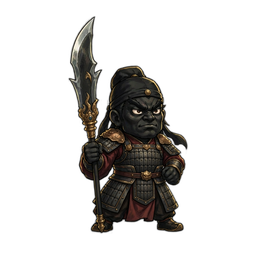
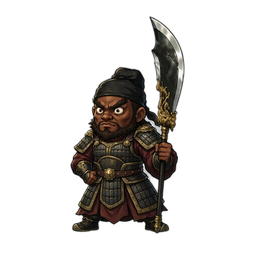
art(zhangfei): 肤色改为古铜色——回原著核对为'皮肤黝黑'而非戏曲'黑脸'，纯黑会埋掉环眼与表情；单位图同步改色并翻转朝右；工具新增--flip；规范补充肤色与朝向口径

Changed region(s): [[0.25, 0.0625, 0.75, 0.9375]]

diff --git a/zcode项目/tools/normalize_to_reference.py b/zcode项目/tools/normalize_to_reference.py
@@ -42,12 +42,16 @@ def main():
     ap.add_argument("--crop-bottom", type=int, default=0, help="先裁掉底部若干像素（去水印用）")
     ap.add_argument("--crop-right", type=int, default=0, help="先裁掉右侧若干像素（去水印用）")
     ap.add_argument("--no-rembg", action="store_true")
+    ap.add_argument("--flip", action="store_true",
+                    help="水平翻转。战场单位统一朝右，AI 出反了就用这个，别重新生成")
     ap.add_argument("--policy", choices=["fit", "height"], default="fit",
                     help="fit=宽高取小（立绘用，避免裁到肩膀）；"
                          "height=按高度对齐（战场单位用，保证换人时大小一致）")
     args = ap.parse_args()
 
     src = Image.open(args.src).convert("RGBA")
+    if args.flip:
+        src = src.transpose(Image.FLIP_LEFT_RIGHT)
     if args.crop_bottom or args.crop_right:
         w, h = src.size
         src = src.crop((0, 0, w - args.crop_right, h - args.crop_bottom))

diff --git a/zcode项目/docs/美术资源规范与AI生图指南.md b/zcode项目/docs/美术资源规范与AI生图指南.md
@@ -331,7 +331,7 @@ AI 很容易把三国武将"模板化"，尤其**胡子**——长髯几乎是 A
 | 角色 | 必须 | 严禁 |
 |---|---|---|
 | **关羽** | 长髯垂胸、面如重枣、丹凤眼 | — |
-| **张飞** | 豹头环眼（**暴眼圆睁**）、黑脸、燕颔（**宽下颌**）、**短硬虎须：贴腮络腮胡，只到下颌下缘** | **长髯 / 飘逸长须 / 美髯公 / 垂胸长胡**（那是关羽） |
+| **张飞** | 豹头环眼（**暴眼圆睁**）、**皮肤黝黑＝古铜/深棕（有血色与高光，不是纯黑）**、燕颔（**宽下颌**）、**短硬虎须：贴腮络腮胡，只到下颌下缘** | **长髯 / 飘逸长须 / 美髯公 / 垂胸长胡**（那是关羽）；**漆黑如炭 / 纯黑肤色**（会丢五官，且不符原著） |
 | **刘备** | 双耳垂肩、面如冠玉、短须、仁厚 | 长须、凶相 |
 | **赵云** | 剑眉星目、青年英武、白袍银甲 | 络腮大胡、老成 |
 
@@ -345,3 +345,30 @@ AI 很容易把三国武将"模板化"，尤其**胡子**——长髯几乎是 A
 > 立绘构图统一为**胸像**：头顶贴到画面上沿、胸口到画布下沿。
 > 若 AI 出成了半身/全身，先按 `--crop-bottom` 裁到胸像，再规整，
 > 否则用 `fit` 会因肩宽而把人缩得很小 —— 立绘也建议用 `--policy height`。
+
+### 张飞肤色：以原著为准，不照搬戏曲脸谱
+
+原著（本作小说）对张飞唯一的正面外貌描写是：
+
+> 「那人**皮肤黝黑**，长着一张**粗犷的大胡子脸**，露出一个**肌肉分明的粗壮臂膀**，丈八蛇矛反射着寒光」
+
+- **「黑脸」是戏曲脸谱符号**（象征猛直），小说原文并没有写"黑脸"。
+- 落地口径：**皮肤黝黑 = 常年征战的古铜/深棕色**，要有血色与高光、五官清晰可辨。
+- 第一版做成了接近纯黑，后果是**环眼、燕颔、表情全被埋掉**，玩家反馈"看着不太像"。
+  改成古铜色后，脸部结构和眼神才立住，在深色棋盘上的辨识度也明显提高。
+
+prompt 补充：
+```text
+皮肤黝黑但偏古铜色（常年征战的深棕色肌肤，有血色与高光，面部结构清晰可辨，不是纯黑）
+
+负面：不要漆黑如炭，不要纯黑人肤色，不要焦黑
+```
+
+### 朝向：战场单位统一朝右
+
+AI 出图有一定概率把角色画成朝左。**不要重新生成**，用工具的 `--flip` 翻转即可：
+
+```bash
+python tools/normalize_to_reference.py --src ... --ref assets/units/guanyu.png \
+  --out assets/units/zhangfei.png --policy height --flip
+```
